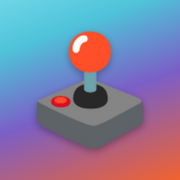
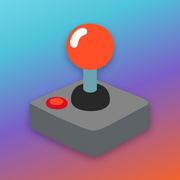
Sfumatura della home che non si ripete piu', icona dal file svg e nota offline riscritta
Lo sfondo della home ricominciava da capo a ogni schermata: l'altezza fissa
al 100% stava anche sul body, che quindi era alto quanto la finestra pur
contenendo una pagina piu' lunga, e lo sfondo del body — non avendone uno
html — veniva promosso a sfondo della pagina e disegnato su quel riquadro,
ripetendosi. Ora l'altezza fissa e' solo su html (che ha una tinta piena di
riserva) e il body cresce con il contenuto: la sfumatura si vede una volta
sola, dal turchese in cima all'arancio sotto al piede di pagina.

L'icona del sito e' rigenerata dal joystick vettoriale (icons/joystick.svg),
piu' pulito della versione di prima a tutte le misure.

La riga sotto al sottotitolo diceva "apri il gioco con la connessione", che
sembrava un obbligo: ora dice che si PUO' giocare anche senza internet.

Changed region(s): [[0.1389, 0.3333, 0.8611, 0.8889], [0.3611, 0.1111, 0.6389, 0.3333], [0.4722, 0.5, 0.5, 0.5278]]

diff --git a/index.html b/index.html
@@ -17,11 +17,23 @@
 <link href="https://fonts.googleapis.com/css2?family=Baloo+2:wght@600;700;800&family=Nunito:wght@400;600;700;800&display=swap" rel="stylesheet">
 <style>
   *{ box-sizing:border-box; -webkit-tap-highlight-color:transparent; }
-  html,body{ height:100%; }
+  /* NB: l'altezza fissa sta solo su html. Se ce l'ha anche il body, il body è
+     alto quanto la finestra pur contenendo una pagina più lunga, e la sfumatura
+     — che si disegna sul suo riquadro — finisce a metà pagina. Con min-height
+     il body cresce fino a contenere tutto. */
+  html{ height:100%; }
+  /* Lo sfondo del body, se l'elemento html non ne ha uno, viene "promosso" a
+     sfondo della pagina intera e disegnato alto quanto la FINESTRA, non quanto
+     il documento: con più giochi in elenco la pagina diventa più lunga di uno
+     schermo e la sfumatura ricominciava da capo a ogni schermata.
+     Dando una tinta piena a html la promozione non avviene più: la sfumatura
+     resta sul body, che è alto quanto tutto il contenuto, e si vede una volta
+     sola dal turchese in cima all'arancio in fondo. */
+  html{ background: #4FC3D9; }
   body{
     margin:0; min-height:100%;
     font-family:'Nunito', sans-serif;
-    background: linear-gradient(160deg, #6FD6E8 0%, #4FC3D9 22%, #7B5FC7 55%, #F2622E 100%);
+    background: linear-gradient(160deg, #6FD6E8 0%, #4FC3D9 22%, #7B5FC7 55%, #F2622E 100%) no-repeat;
     color: #FFFDF8;
     overflow-x:hidden;
   }
@@ -300,7 +312,7 @@
       <div class="logo">🕹</div>
       <h1>Free For Real</h1>
       <p data-i18n="tagline">Giochi gratis. Per davvero.</p>
-      <p class="offline-note" data-i18n="offlineNote">📶 Apri il gioco con la connessione: da lì in poi puoi giocare anche senza internet.</p>
+      <p class="offline-note" data-i18n="offlineNote">📶 Si può giocare anche senza internet: basta aver aperto il gioco una volta con la connessione.</p>
     </header>
 
     <div class="games">
@@ -382,7 +394,7 @@ const LANGUAGES = {
 const HOME_STRINGS = {
   it: {
     tagline: 'Giochi gratis. Per davvero.',
-    offlineNote: '📶 Apri il gioco con la connessione: da lì in poi puoi giocare anche senza internet.',
+    offlineNote: '📶 Si può giocare anche senza internet: basta aver aperto il gioco una volta con la connessione.',
     wordioDesc: 'Componi tutte le parole usando le lettere sulla ruota. Italiano, inglese, francese.',
     blokkoDesc: 'Incastra i blocchi che cadono prima che si accumulino troppo.',
     boingDesc: 'Rompi tutti i mattoncini rimbalzando la pallina col paddle. 3 vite, potenziamenti e 3 livelli di difficoltà.',
@@ -398,7 +410,7 @@ const HOME_STRINGS = {
   },
   en: {
     tagline: 'Free games. For real.',
-    offlineNote: '📶 Open a game while you are online: from then on you can keep playing with no connection.',
+    offlineNote: '📶 You can play offline too: just open the game once while you are online.',
     wordioDesc: 'Spell out every word using the letters on a wheel. Italian, English, French.',
     blokkoDesc: 'Clear the falling blocks before they stack up.',
     boingDesc: 'Bounce the ball off your paddle to clear every brick. 3 lives, power-ups, and 3 difficulty levels.',
@@ -414,7 +426,7 @@ const HOME_STRINGS = {
   },
   fr: {
     tagline: 'Jeux gratuits. Pour de vrai.',
-    offlineNote: '📶 Ouvre le jeu avec la connexion : ensuite tu peux jouer même sans internet.',
+    offlineNote: '📶 Tu peux aussi jouer hors ligne : il suffit d'avoir ouvert le jeu une fois avec la connexion.',
     wordioDesc: "Compose tous les mots avec les lettres sur la roue. Italien, anglais, français.",
     blokkoDesc: "Range les blocs qui tombent avant qu'ils ne s'accumulent.",
     boingDesc: 'Casse toutes les briques en faisant rebondir la balle sur ta raquette. 3 vies, bonus et 3 niveaux de difficulté.',
